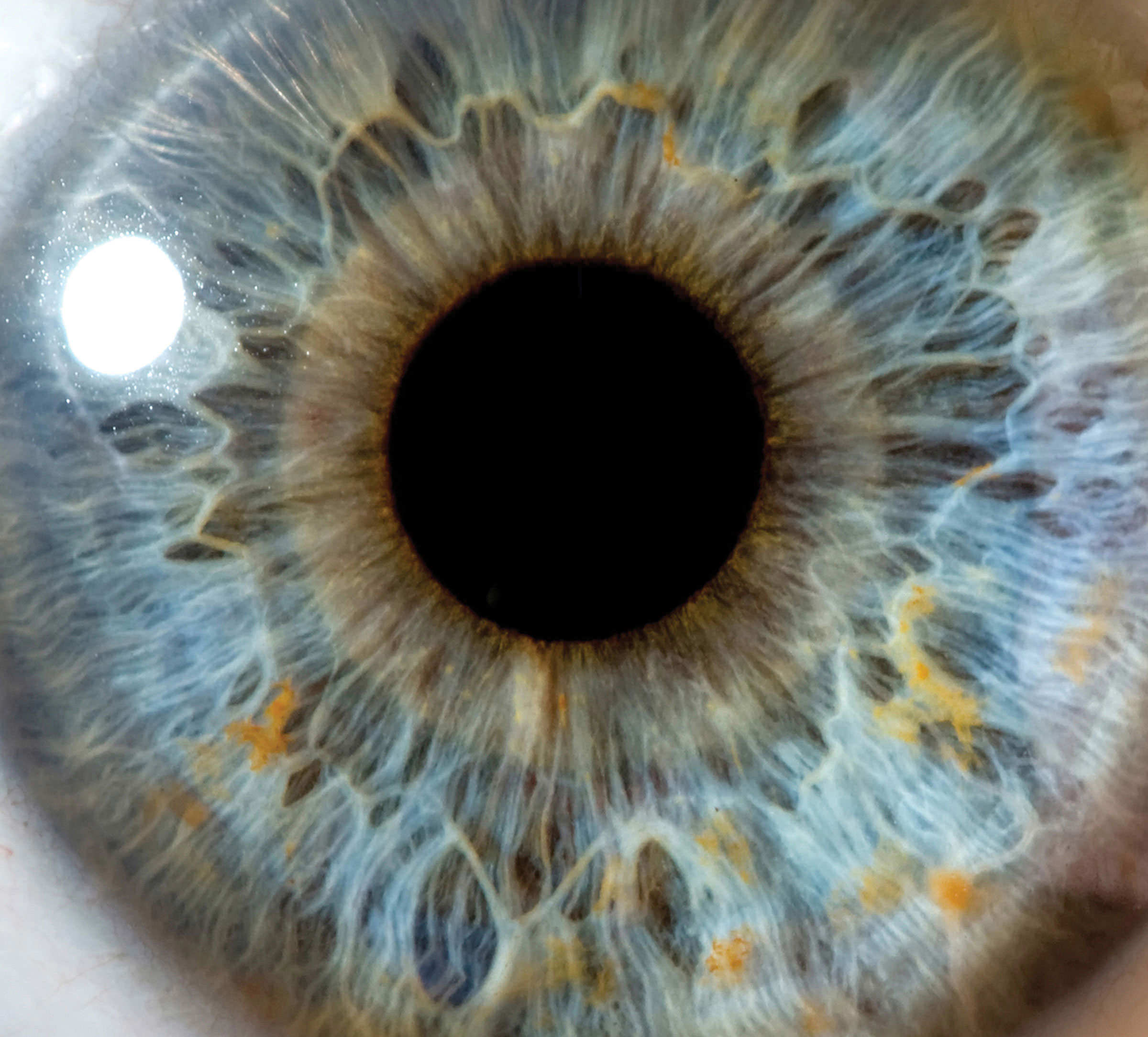
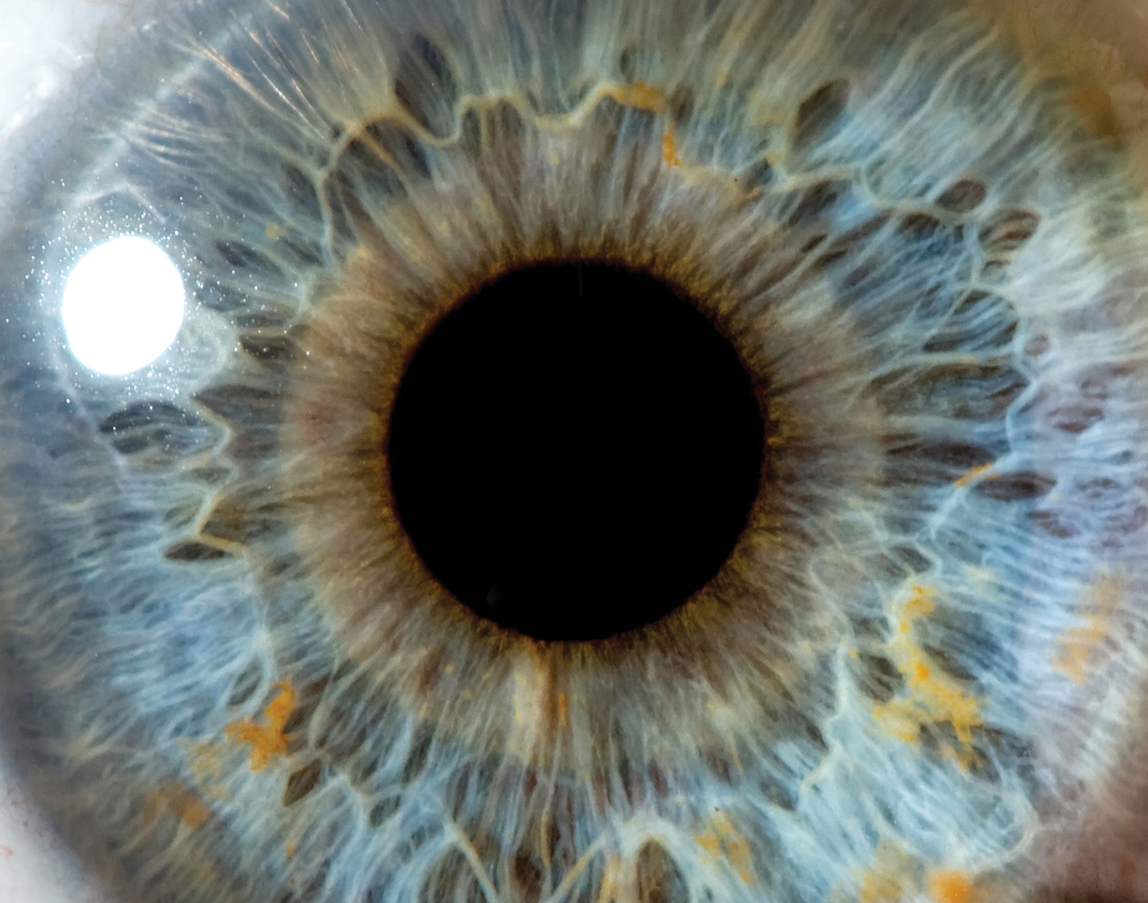
Fixing bg image

diff --git a/js/main.js b/js/main.js
@@ -6,10 +6,10 @@ $(function() {
     minWidth = 1000;
     if ($(window).width() < minWidth) {
       ($('.bgimg')).css('background-size', minWidth + 'px auto');
-      return ($('.bgimg')).css('background-position', 'left -100px');
+      return ($('.bgimg')).css('background-position', 'left center');
     } else {
       ($('.bgimg')).css('background-size', '100% auto');
-      return ($('.bgimg')).css('background-position', 'center -100px');
+      return ($('.bgimg')).css('background-position', 'center center');
     }
   });
 });

diff --git a/css/main.css b/css/main.css
@@ -56,7 +56,7 @@ header {
   padding: 100px 0; }
 
 .bgimg {
-  background-position: center -100px;
+  background-position: center center;
   background-size: 100% auto; }
 
 #home {

diff --git a/css/sass/main.scss b/css/sass/main.scss
@@ -88,7 +88,7 @@ header {
 }
 
 .bgimg {
-  background-position: center -100px;
+  background-position: center center;
   background-size: 100% auto;
 }
 
